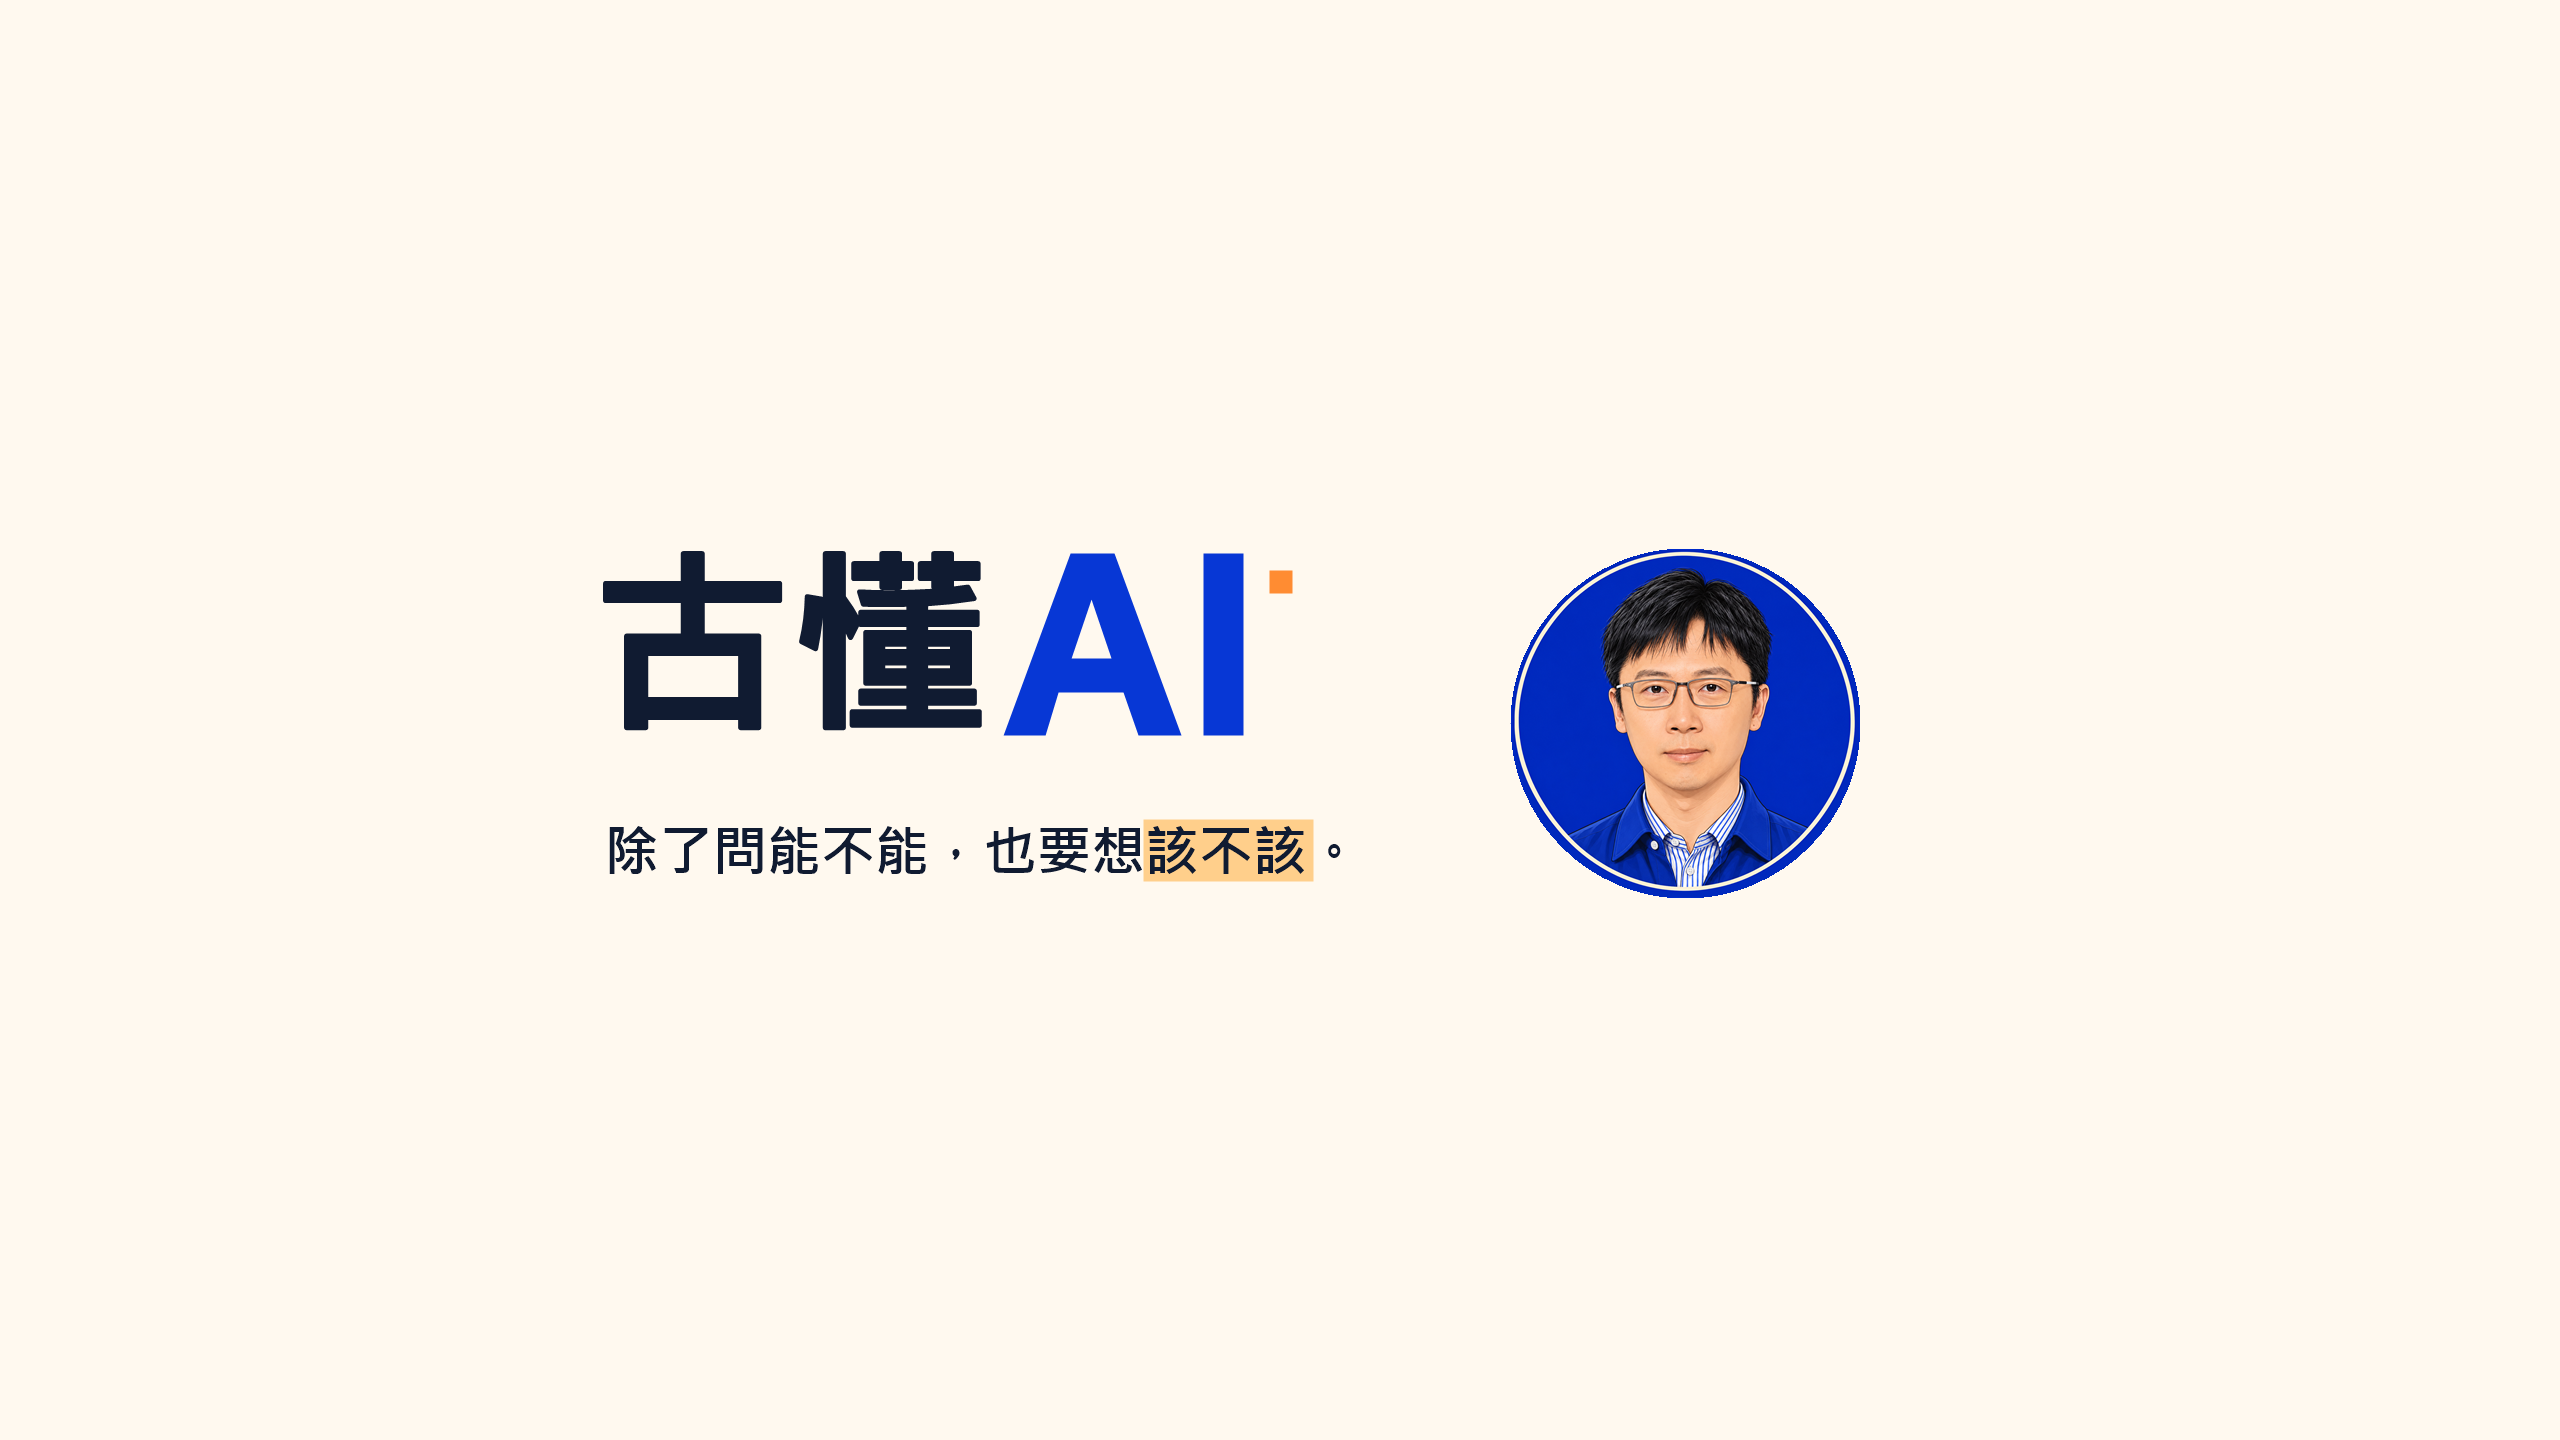
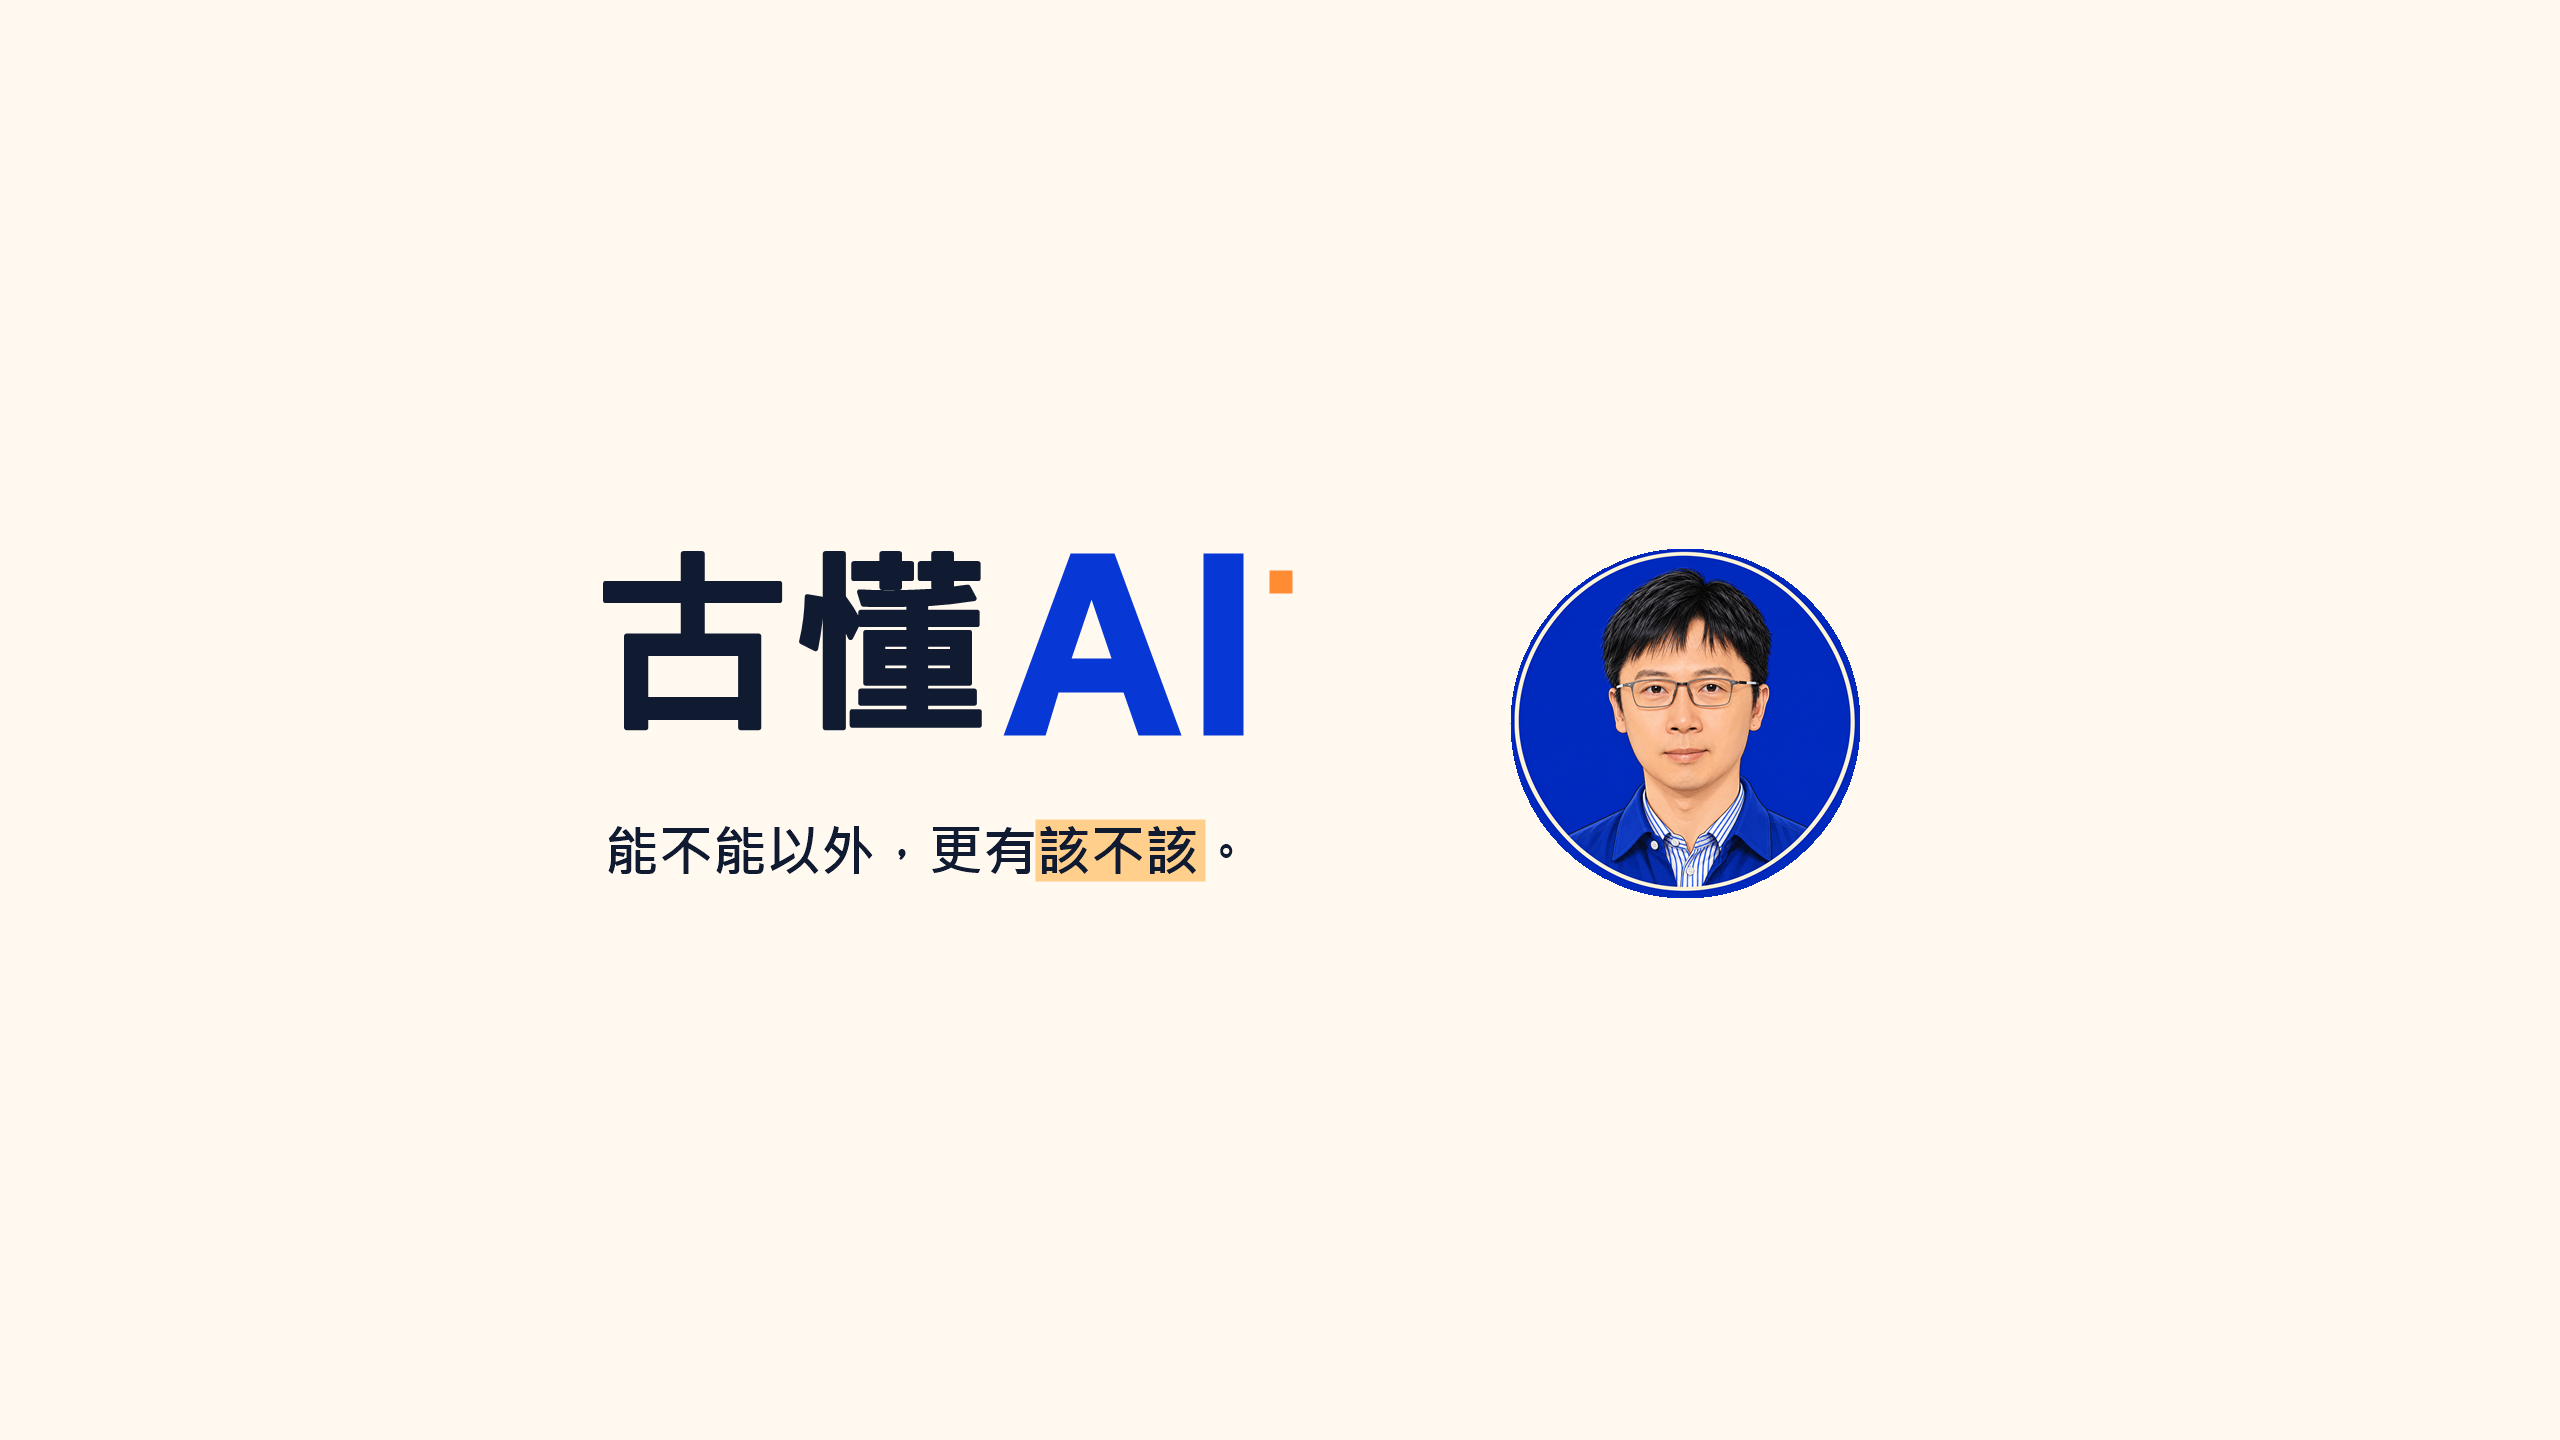
Publish five character ethical tagline

Changed region(s): [[0.2188, 0.5625, 0.5312, 0.625]]

diff --git a/index.html b/index.html
@@ -5,10 +5,10 @@
   <meta name="viewport" content="width=device-width, initial-scale=1">
   <meta name="description" content="AI with Koo. Dr. Koo explores AI, education, ethics, and the choices that shape its impact on people.">
   <meta name="theme-color" content="#fff9ef">
-  <meta property="og:title" content="古懂AI · 除了問能不能，也要想該不該。">
+  <meta property="og:title" content="古懂AI · 能不能以外，更有該不該。">
   <meta property="og:description" content="Beyond what AI can do, let's consider what it (and we) should do. AI, education, and ethics with Dr. Koo.">
   <meta property="og:type" content="website">
-  <title>古懂AI · 除了問能不能，也要想該不該。</title>
+  <title>古懂AI · 能不能以外，更有該不該。</title>
   <style>
     :root{--night:#071827;--navy:#10283a;--line:#315063;--paper:#f6f8f5;--ink:#142c38;--muted:#526773;--cyan:#6ae7e8;--lime:#d9f879}
     *{box-sizing:border-box}html{scroll-behavior:smooth}body{margin:0;background:var(--paper);color:var(--ink);font-family:Inter,"Noto Sans TC","Microsoft JhengHei",Arial,sans-serif;line-height:1.55}a{color:inherit}.wrap{width:min(1120px,calc(100% - 40px));margin:auto}.skip{position:absolute;left:-9999px;top:8px;padding:8px 12px;background:var(--lime);color:var(--night);z-index:10}.skip:focus{left:8px}
@@ -24,7 +24,7 @@
     @media(prefers-reduced-motion:reduce){html{scroll-behavior:auto}.button:hover,.button:focus-visible{transform:none}}
   </style>
 <link rel="stylesheet" href="brand.css?v=credentials-v2">
-<meta property="og:image" content="https://simonkoo.github.io/assets/youtube-banner.png?v=chule">
+<meta property="og:image" content="https://simonkoo.github.io/assets/youtube-banner.png?v=gengyou">
 <link rel="icon" href="assets/simon-avatar.png">
 </head>
 <body>
@@ -34,7 +34,7 @@
     <div class="dark" id="top"><div class="hero wrap"><div>
       <div class="eyebrow">AI · EDUCATION · ETHICS</div>
       <h1><img src="assets/gudong-ai-wordmark.png?v=upright-final" alt="古懂AI" width="740" height="240"></h1>
-      <p class="brand-promise" lang="zh-Hant">除了問能不能，也要想<mark>該不該</mark>。</p>
+      <p class="brand-promise" lang="zh-Hant">能不能以外，更有<mark>該不該</mark>。</p>
       <p class="english-promise">Beyond what AI can do, let's consider what it (and we) should do.</p>
       <p class="lead">AI, education, and ethics with Dr. Koo.</p>
       <div class="actions"><a class="button primary" href="https://www.youtube.com/@AIWithKoo">Visit AI with Koo on YouTube ↗</a><a class="button" href="#about">About Dr. Koo</a></div>
